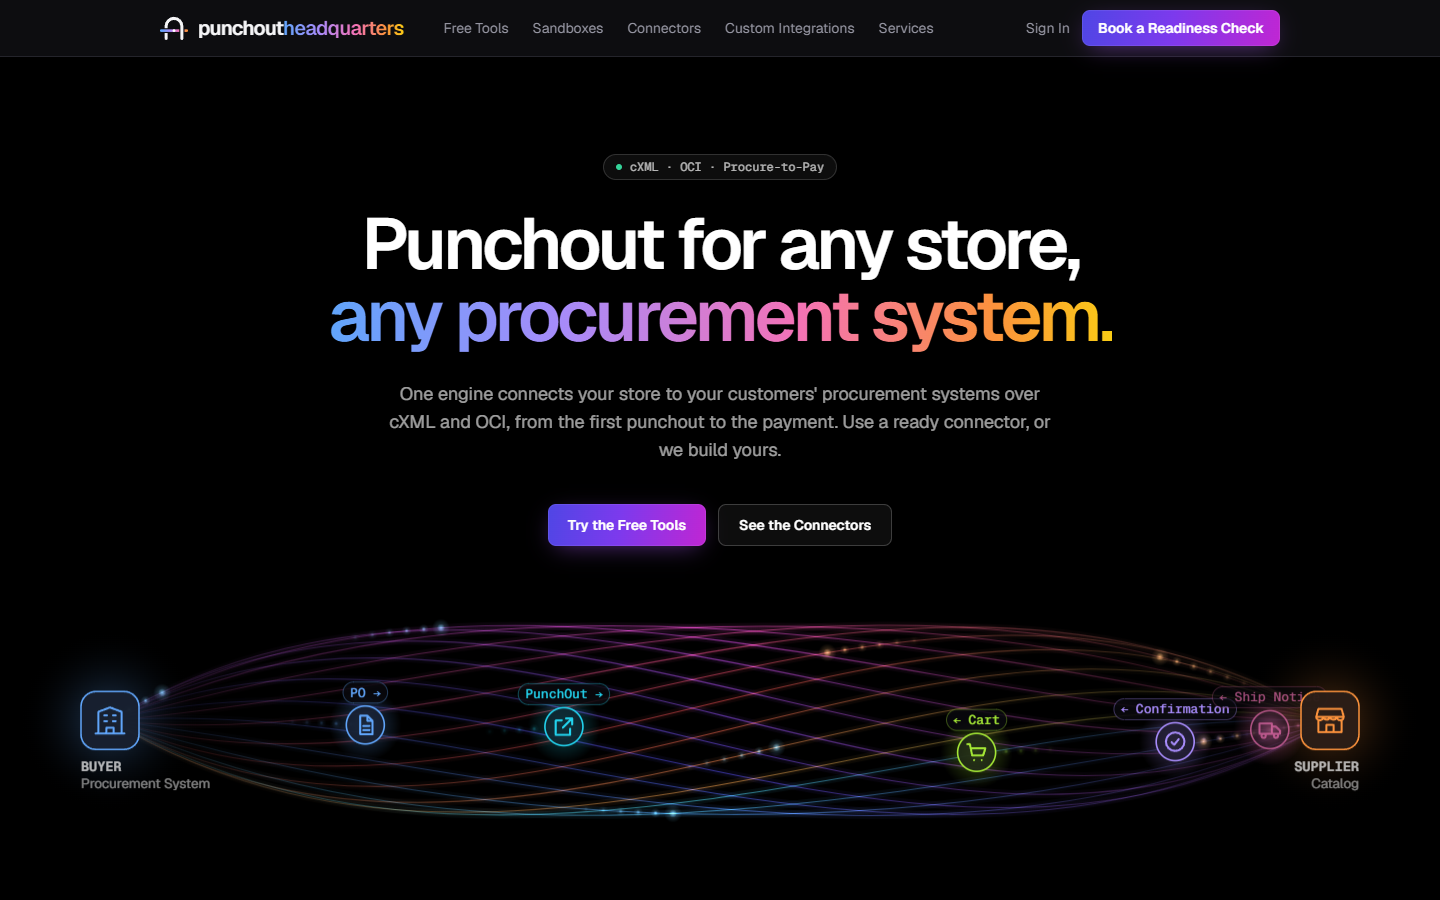
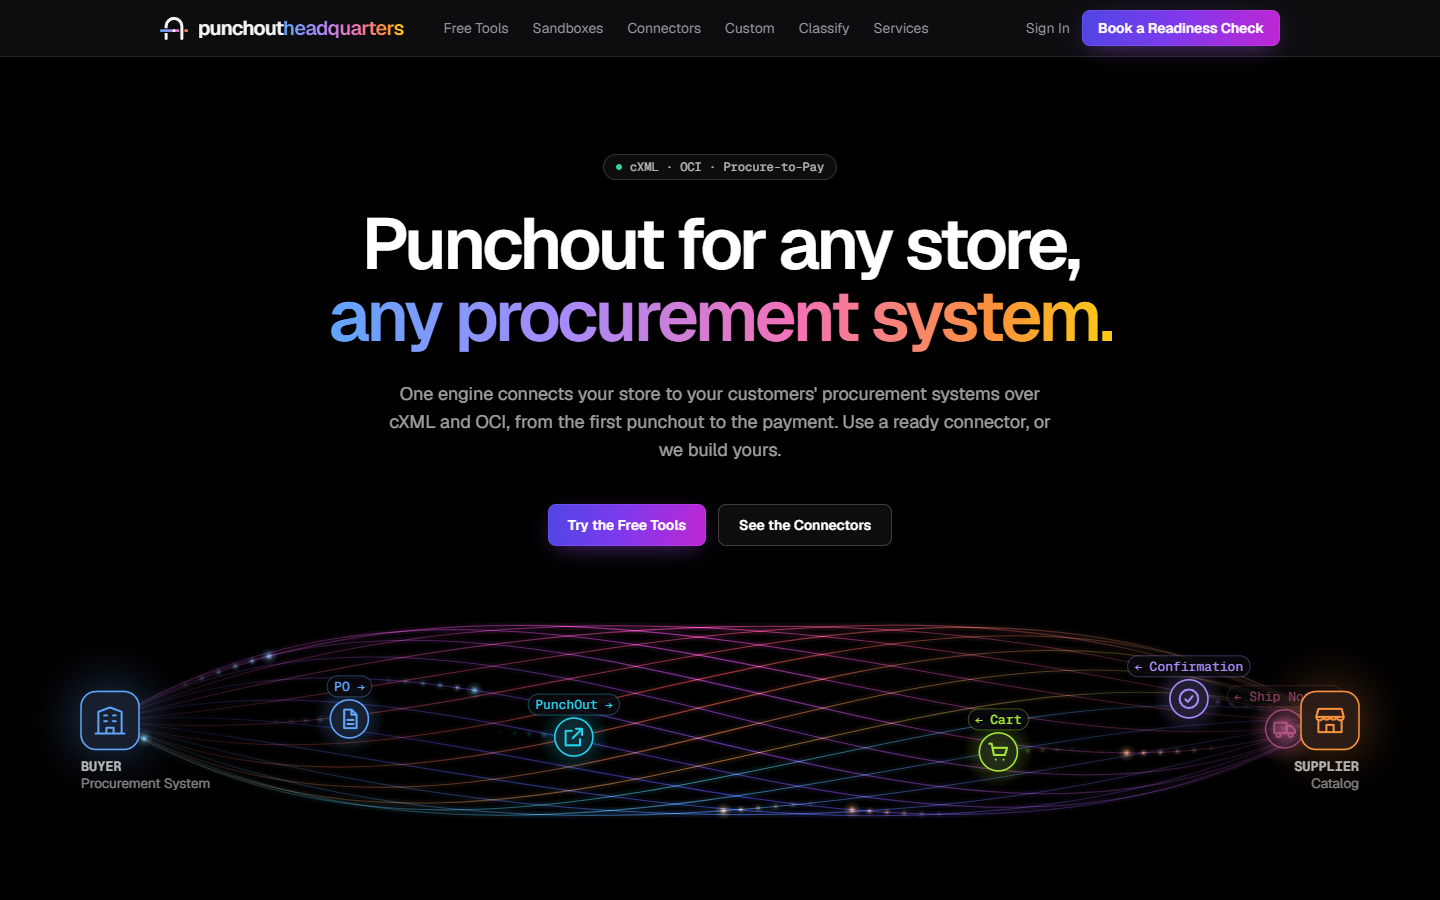
Add Punchout Classify

Changed region(s): [[0.1562, 0.6844, 0.9375, 0.9333], [0.5625, 0.0311, 0.5938, 0.0622], [0.0938, 0.7467, 0.125, 0.7778]]

diff --git a/README.md b/README.md
@@ -1,6 +1,6 @@
 # Punchout HQ
 
-A punchout platform for **any store and any procurement system**: cXML and SAP OCI punchout, purchase orders, confirmations, ship notices, invoices, credit memos, and payment. It has free testing tools anyone can use, two full sandboxes (one plays the buyer, one plays the supplier), and a Readiness Check service that tests a supplier's store against their buyer's system before go-live.
+A punchout platform for **any store and any procurement system**: cXML and SAP OCI punchout, purchase orders, confirmations, ship notices, invoices, credit memos, and payment. It has free testing tools anyone can use, two full sandboxes (one plays the buyer, one plays the supplier), catalog classification that puts the right UNSPSC code on every SKU, and a Readiness Check service that tests a supplier's store against their buyer's system before go-live.
 
 > **Source code is private.** This repo is a showcase of what the platform does. Happy to walk through the code or the architecture on a call.
 
@@ -10,6 +10,7 @@ A punchout platform for **any store and any procurement system**: cXML and SAP O
 | **Free Tools** | cXML PunchOut, OCI RoundTrip, and cXML Order testers. No sign-up | [tools.punchouthq.com](https://tools.punchouthq.com) |
 | **Punchout Procure** | Mock buyer procurement system. Bring your own store and run procure-to-pay end to end | [overview](https://punchouthq.com/procure) · [sandbox](https://procure.punchouthq.com) |
 | **Punchout Supply** | Mage-OS / Magento 2 extension that turns a store into a punchout supplier | [overview](https://punchouthq.com/supply) · [sandbox](https://supply.punchouthq.com) |
+| **Punchout Classify** | UNSPSC classification for a whole catalog, fixing missing, too-broad and invalid codes. Free 25-SKU check | [punchouthq.com/classify](https://punchouthq.com/classify) |
 | **Readiness Check** | Fixed-price test of a store against the buyer's system, with a pass/fail report | [book one](https://punchouthq.com/readiness-check) |
 
 The sandboxes are open by request: each overview page has a request-access form.
@@ -136,6 +137,20 @@ Per-buyer cXML credentials and OCI logins. Shared secrets are stored encrypted a
 
 ---
 
+## Punchout Classify
+
+Buyer systems reject carts with missing or wrong commodity codes, and most supplier catalogs are full of them: blanks, one segment code stamped on everything, neighbouring codes picked by hand, and codes that were never valid. Punchout Classify matches every SKU to the most specific UNSPSC commodity, checks it against the current release, and flags anything it isn't sure about. With a Punchout connector the codes go straight into the cXML `<Classification domain="UNSPSC">` and OCI `NEW_ITEM-MATGROUP` fields buyers read.
+
+![Punchout Classify](images/classify-hero.png)
+
+An example run: codes filled in, corrected, or flagged for a look, with the confidence for each.
+
+![Classification run](images/classify-run.png)
+
+Anyone can send up to 25 products for a free check. A CSV is read in the browser, so only those rows are sent; requests are stored encrypted and land in the same review queue as sandbox access and Readiness Checks. Punchout Procure's readiness checklist points suppliers here when their cart lines are missing codes.
+
+---
+
 ## Readiness Check
 
 A fixed-price service: I connect a supplier's store to Punchout Procure as their buyer's system will see it, run the whole cycle (punchout, cart return, orders, confirmations, ship notices, invoices, credit memos, payment), and deliver a report with every step marked pass or fail, the message that broke, and what to change.
@@ -148,4 +163,4 @@ A fixed-price service: I connect a supplier's store to Punchout Procure as their
 
 ## About me
 
-I build supplier-side procurement integrations for any procurement system: punchout, catalogs, POs, and invoicing over cXML, OCI, and EDI, delivered on Coupa, SAP Ariba, SAP S/4HANA, Oracle, and Zycus, plus the NetSuite scripting behind them. Available for consulting on Upwork, or email support@punchouthq.com.
+I build supplier-side procurement integrations for any procurement system: punchout, catalogs and catalog classification, POs, and invoicing over cXML, OCI, and EDI, delivered on Coupa, SAP Ariba, SAP S/4HANA, Oracle, and Zycus, plus the NetSuite scripting behind them. Available for consulting on Upwork, or email support@punchouthq.com.
